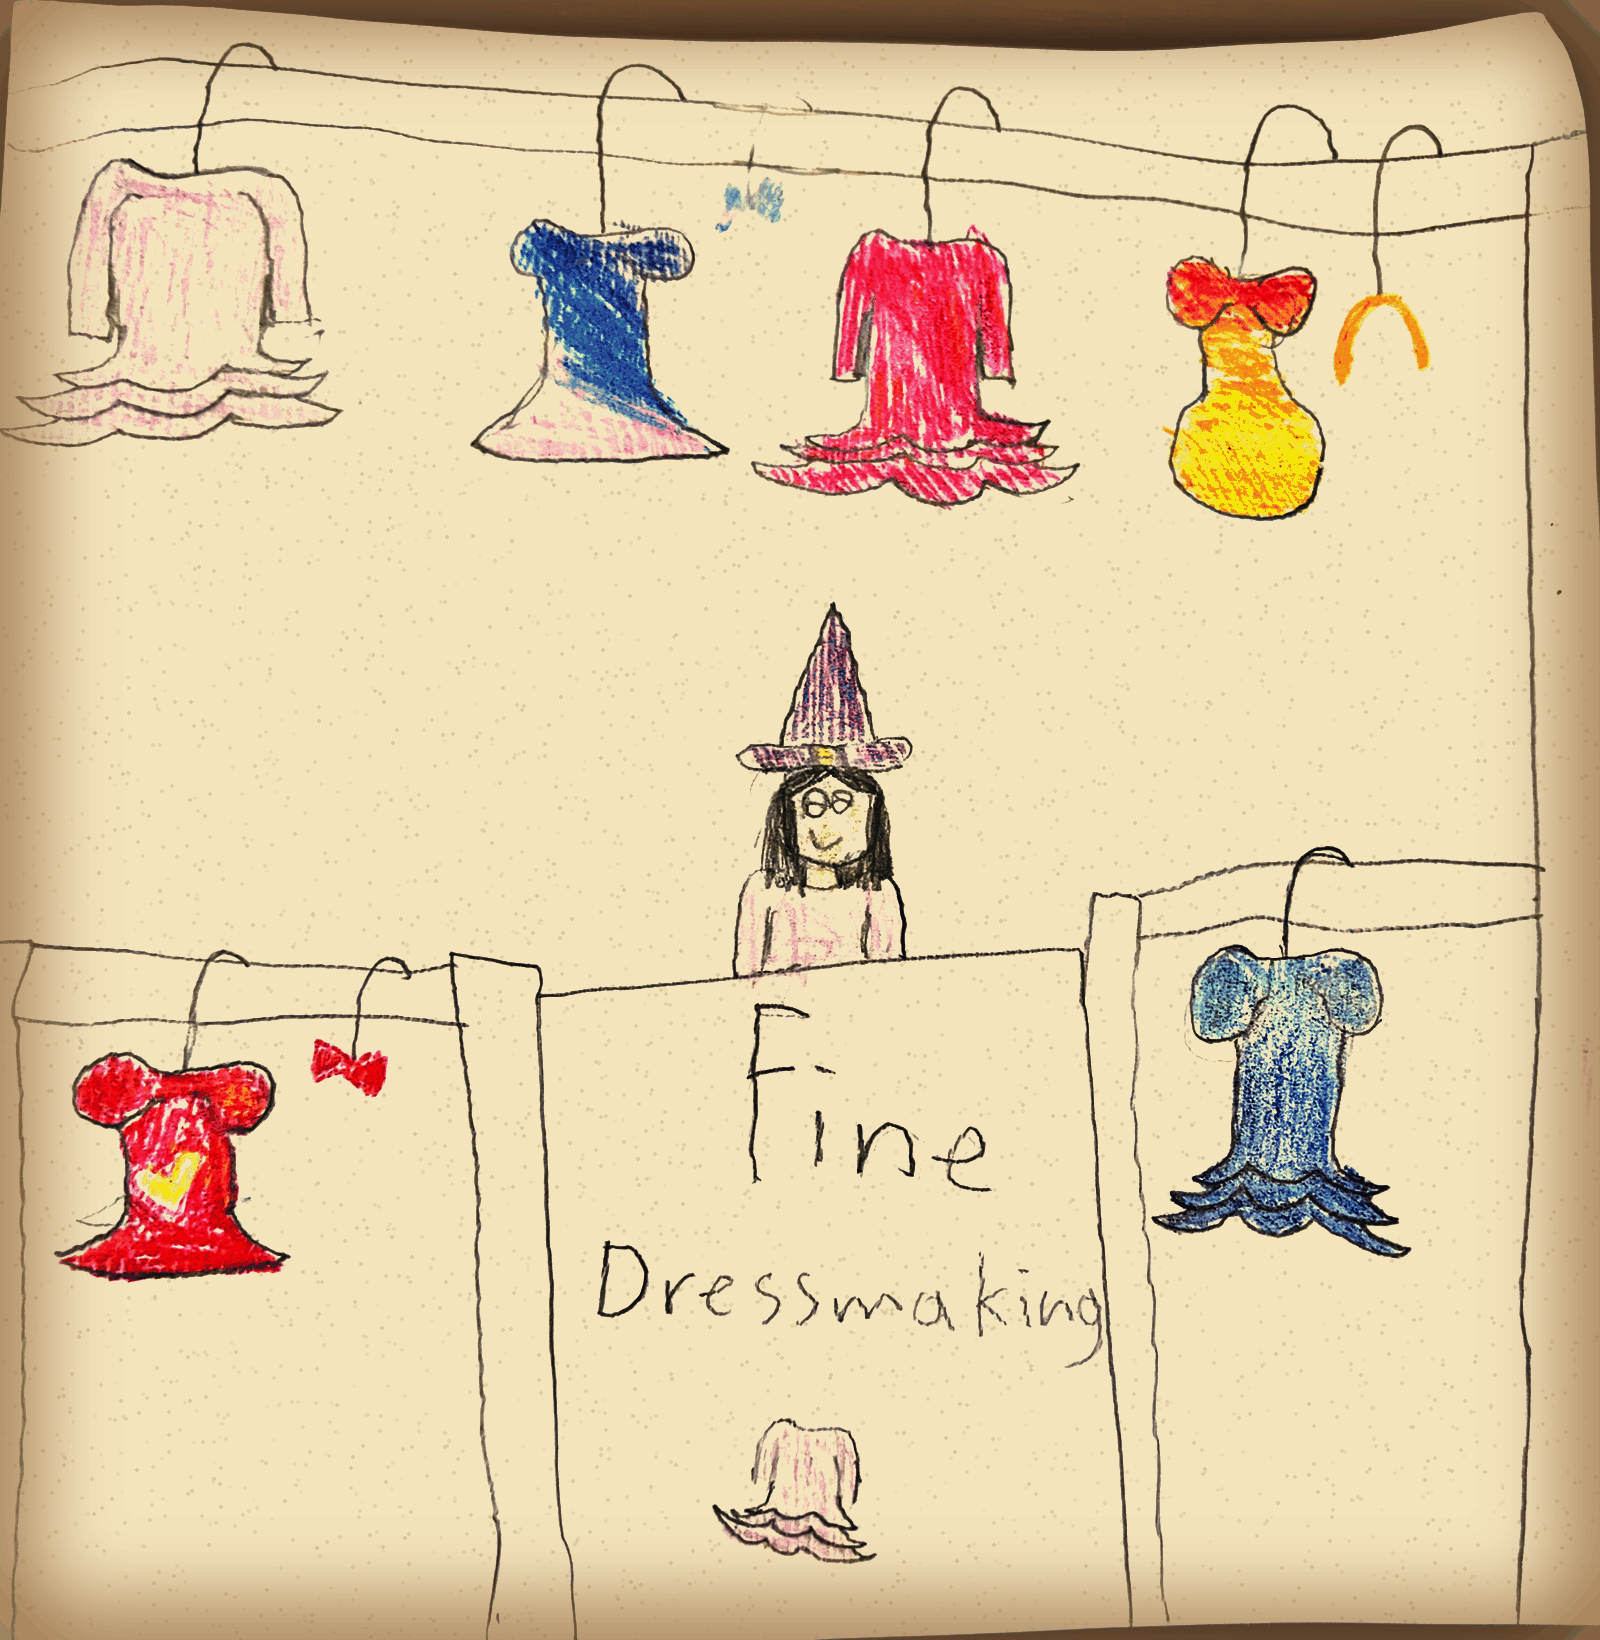
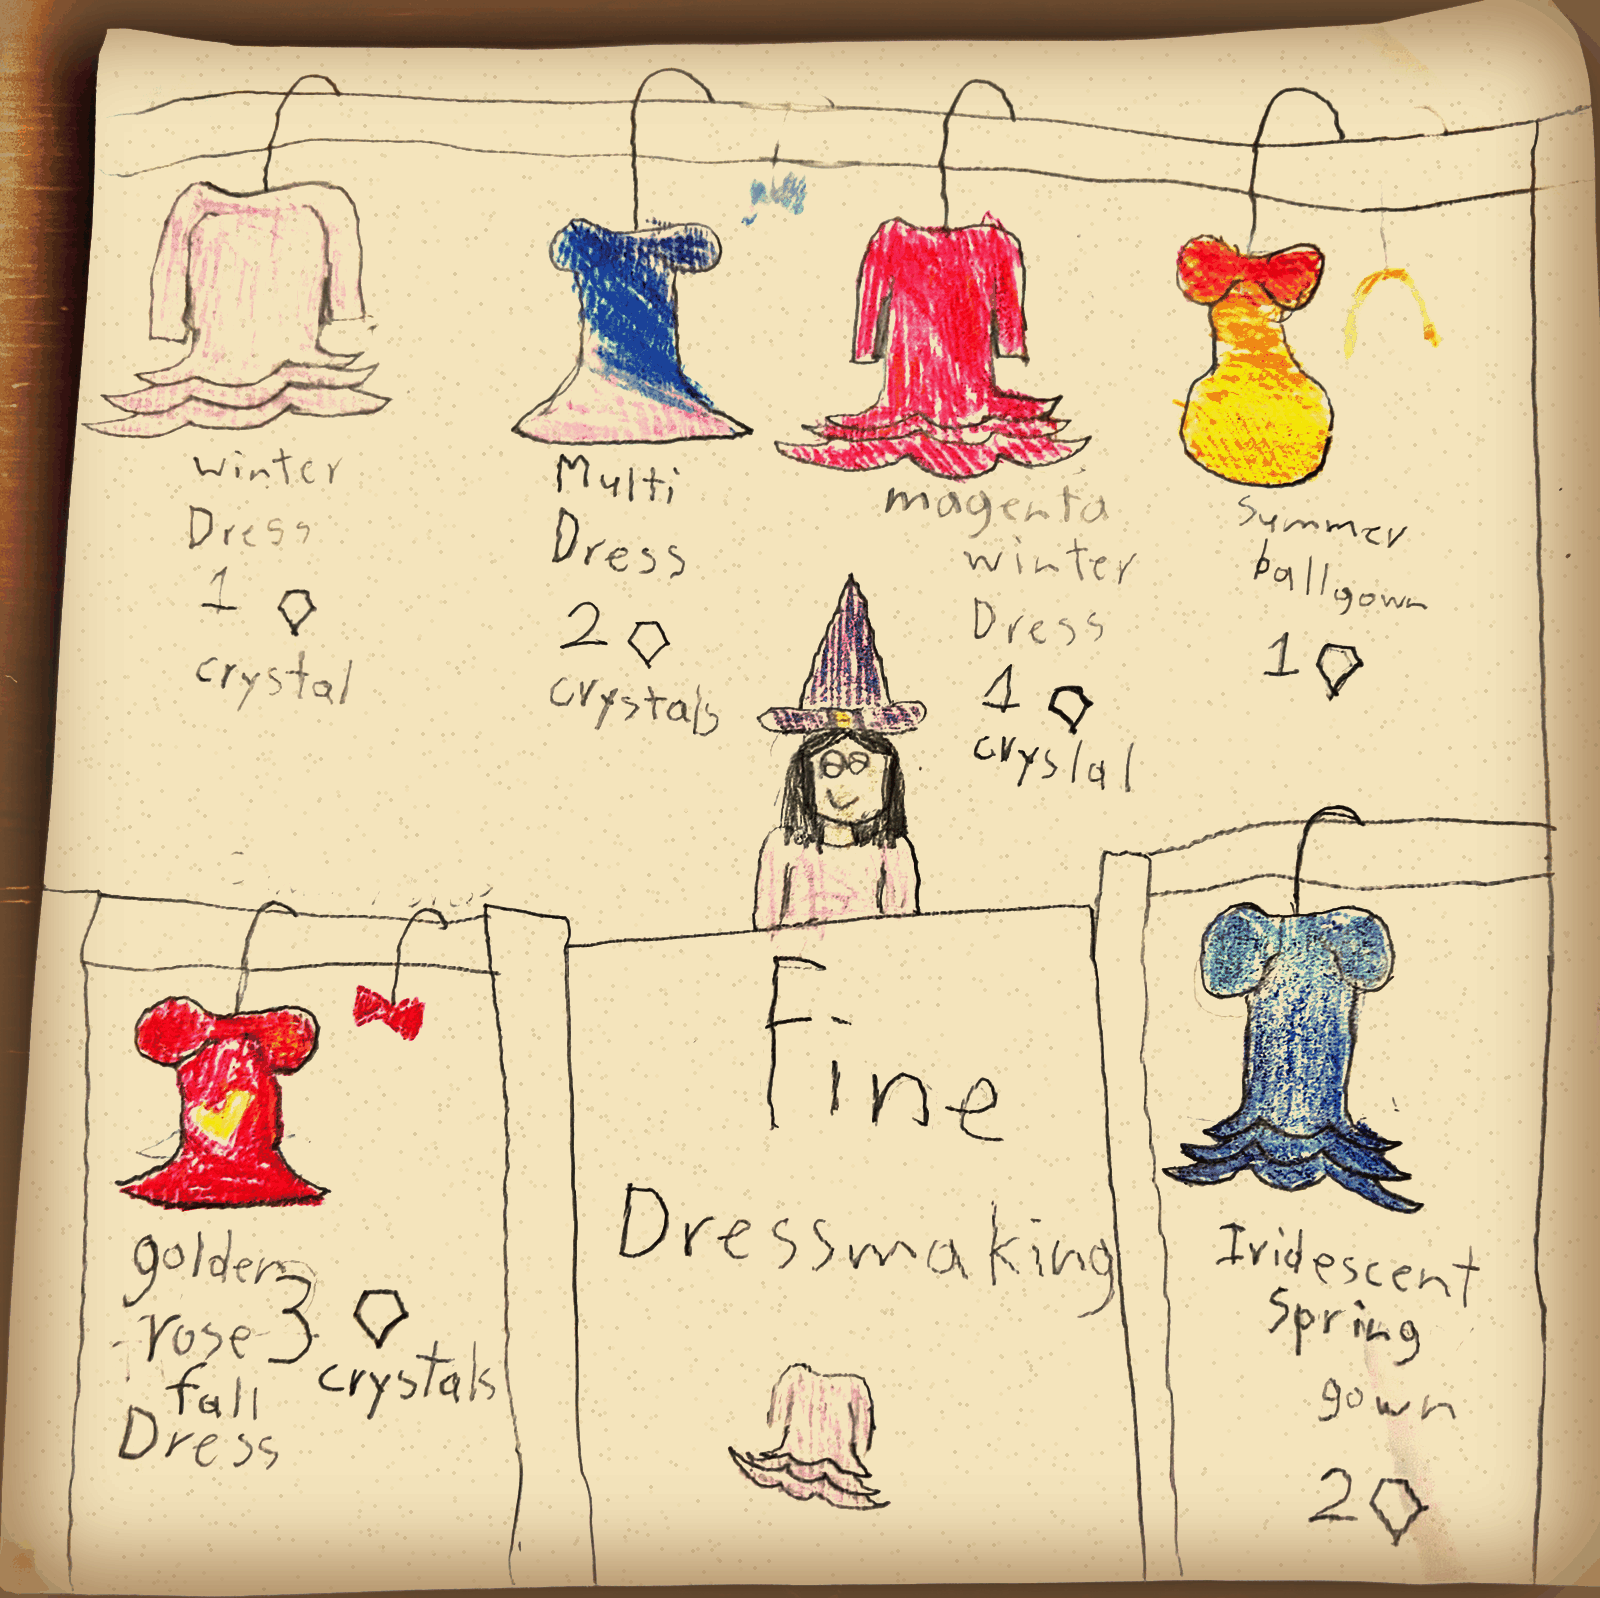
New Fine Dressmaking drawing with six dresses for sale in Crystals
Claude-Session: https://claude.ai/code/session_01BBNJnnKDsoYXa5MRnbbGYn

Changed region(s): [[0.0, 0.0, 1.0, 1.0], [0.4375, 0.8586, 0.5625, 0.9506], [0.8125, 0.9199, 0.9062, 0.9812]]

diff --git a/index.html b/index.html
@@ -6,7 +6,7 @@
   <title>Witches and Wizards</title>
   <link rel="preconnect" href="https://fonts.googleapis.com">
   <link href="https://fonts.googleapis.com/css2?family=Grandstander:wght@400;700&display=swap" rel="stylesheet">
-  <link rel="stylesheet" href="css/style.css?v=15">
+  <link rel="stylesheet" href="css/style.css?v=16">
 </head>
 <body>
 
@@ -72,7 +72,7 @@
     <span class="status-item"><b id="status-level"></b></span>
     <span class="status-item" title="Adventure Points">Adventure <span id="status-points" class="stars"></span></span>
     <span class="status-item" title="Crystals">💎 <b id="status-crystals"></b></span>
-    <span class="status-item" title="Gems"><img class="gem-icon" src="art/processed/extra_gem.png?v=15" alt="Gems"> <b id="status-gems"></b></span>
+    <span class="status-item" title="Gems"><img class="gem-icon" src="art/processed/extra_gem.png?v=16" alt="Gems"> <b id="status-gems"></b></span>
     <button id="btn-backpack" class="small-button">🎒 Backpack</button>
     <button id="btn-cooler" class="small-button">🧊 Cooler</button>
     <button id="btn-bucket" class="small-button">🪣 Bucket</button>
@@ -189,25 +189,25 @@
   <p id="placement-info" class="placement-info" hidden></p>
 
   <!-- Game content. Every data file adds to GAME_DATA. -->
-  <script>var GAME_DATA = {}; var GAME_VERSION = "15"; // tools/bump_version.py changes this and every ?v= so browsers load fresh files</script>
-  <script src="data/characters.js?v=15"></script>
-  <script src="data/places.js?v=15"></script>
-  <script src="data/paths.js?v=15"></script>
-  <script src="data/items.js?v=15"></script>
-  <script src="data/fish.js?v=15"></script>
-  <script src="data/digging.js?v=15"></script>
-  <script src="data/furniture.js?v=15"></script>
-  <script src="data/furniture_art.js?v=15"></script>
-  <script src="data/drawn.js?v=15"></script>
+  <script>var GAME_DATA = {}; var GAME_VERSION = "16"; // tools/bump_version.py changes this and every ?v= so browsers load fresh files</script>
+  <script src="data/characters.js?v=16"></script>
+  <script src="data/places.js?v=16"></script>
+  <script src="data/paths.js?v=16"></script>
+  <script src="data/items.js?v=16"></script>
+  <script src="data/fish.js?v=16"></script>
+  <script src="data/digging.js?v=16"></script>
+  <script src="data/furniture.js?v=16"></script>
+  <script src="data/furniture_art.js?v=16"></script>
+  <script src="data/drawn.js?v=16"></script>
 
   <!-- Game code -->
-  <script src="js/save.js?v=15"></script>
-  <script src="js/world.js?v=15"></script>
-  <script src="js/items.js?v=15"></script>
-  <script src="js/fishing.js?v=15"></script>
-  <script src="js/digging.js?v=15"></script>
-  <script src="js/storage.js?v=15"></script>
-  <script src="js/furniture.js?v=15"></script>
-  <script src="js/game.js?v=15"></script>
+  <script src="js/save.js?v=16"></script>
+  <script src="js/world.js?v=16"></script>
+  <script src="js/items.js?v=16"></script>
+  <script src="js/fishing.js?v=16"></script>
+  <script src="js/digging.js?v=16"></script>
+  <script src="js/storage.js?v=16"></script>
+  <script src="js/furniture.js?v=16"></script>
+  <script src="js/game.js?v=16"></script>
 </body>
 </html>

diff --git a/data/items.js b/data/items.js
@@ -34,5 +34,11 @@ GAME_DATA.items = [
   {"id": "special_book", "name": "Wizard Essentials Spellbook", "category": "Special Item", "gems": 5, "emoji": "📖", "description": "Every spell a young witch or wizard needs to know."}
 ,
   {"id": "ski_size1", "name": "Ski Outfit (Size 1)", "category": "Ski Gear", "gems": 3, "emoji": "⛷", "inPicture": true, "shelfX": 21, "shelfY": 76, "description": "A green ski outfit from the Ski Reserve."},
-  {"id": "ski_size2", "name": "Ski Outfit (Size 2)", "category": "Ski Gear", "gems": 5, "emoji": "⛷", "inPicture": true, "shelfX": 40, "shelfY": 74, "description": "A purple ski outfit from the Ski Reserve, one size bigger."}
+  {"id": "ski_size2", "name": "Ski Outfit (Size 2)", "category": "Ski Gear", "gems": 5, "emoji": "⛷", "inPicture": true, "shelfX": 40, "shelfY": 74, "description": "A purple ski outfit from the Ski Reserve, one size bigger."},
+  {"id": "dress_winter", "name": "Winter Dress", "category": "Dresses", "price": 1, "emoji": "👗", "inPicture": true, "shelfX": 15, "shelfY": 26, "description": "A soft pink winter dress with a frilly hem."},
+  {"id": "dress_multi", "name": "Multi Dress", "category": "Dresses", "price": 2, "emoji": "👗", "inPicture": true, "shelfX": 40, "shelfY": 27, "description": "A dress that fades from blue to pink."},
+  {"id": "dress_magenta_winter", "name": "Magenta Winter Dress", "category": "Dresses", "price": 4, "emoji": "👗", "inPicture": true, "shelfX": 58, "shelfY": 29, "description": "A bright magenta winter dress with frills."},
+  {"id": "dress_summer_ballgown", "name": "Summer Ballgown", "category": "Dresses", "price": 1, "emoji": "👗", "inPicture": true, "shelfX": 79, "shelfY": 30, "description": "A sunny yellow and orange ballgown with a bow."},
+  {"id": "dress_golden_rose", "name": "Golden Rose Fall Dress", "category": "Dresses", "price": 3, "emoji": "👗", "inPicture": true, "shelfX": 14, "shelfY": 75, "description": "A red fall dress with a golden rose."},
+  {"id": "dress_iridescent_spring", "name": "Iridescent Spring Gown", "category": "Dresses", "price": 2, "emoji": "👗", "inPicture": true, "shelfX": 81, "shelfY": 75, "description": "A shimmering blue spring gown."}
 ];

diff --git a/data/drawn.js b/data/drawn.js
@@ -1,2 +1,2 @@
 // Made by tools/process_art.py: the pictures that are real drawings, not placeholders.
-GAME_DATA.drawn = ["bany", "beach_bottlecap", "beach_redshell", "beach_sanddollar", "broom_bolt", "broom_firefly", "broom_no1", "broom_no10", "broom_no11", "broom_no2", "broom_no3", "broom_no4", "broom_no5", "broom_no6", "broom_no7", "broom_no8", "broom_no9", "broom_rocketer", "broom_snowflake", "broom_stinger", "broom_wave", "charmy", "coachy", "extra_gem", "extra_snowball_first", "fish_bubble", "fish_crystal", "fish_dream", "lisley", "map_mountain", "map_world", "pet_cat", "pet_owl", "pet_turtle", "place_beach", "place_cabin", "place_dock", "place_dress_shop", "place_home", "place_island", "place_rec_room", "place_shelf_brooms", "place_shelf_hats", "place_shelf_pets", "place_shelf_potions", "place_shelf_special", "place_shelf_wands", "place_shelves", "place_shelves_alt", "place_ski_reserve", "place_store", "potion_float", "rosy", "ski_size1", "ski_size2", "special_book", "treasure_sanddollar", "treasure_shell", "wanda", "winky"];
+GAME_DATA.drawn = ["bany", "beach_bottlecap", "beach_redshell", "beach_sanddollar", "broom_bolt", "broom_firefly", "broom_no1", "broom_no10", "broom_no11", "broom_no2", "broom_no3", "broom_no4", "broom_no5", "broom_no6", "broom_no7", "broom_no8", "broom_no9", "broom_rocketer", "broom_snowflake", "broom_stinger", "broom_wave", "charmy", "coachy", "dress_golden_rose", "dress_iridescent_spring", "dress_magenta_winter", "dress_multi", "dress_summer_ballgown", "dress_winter", "extra_gem", "extra_snowball_first", "fish_bubble", "fish_crystal", "fish_dream", "lisley", "map_mountain", "map_world", "pet_cat", "pet_owl", "pet_turtle", "place_beach", "place_cabin", "place_dock", "place_dress_shop", "place_home", "place_island", "place_rec_room", "place_shelf_brooms", "place_shelf_hats", "place_shelf_pets", "place_shelf_potions", "place_shelf_special", "place_shelf_wands", "place_shelves", "place_shelves_alt", "place_ski_reserve", "place_store", "potion_float", "rosy", "ski_size1", "ski_size2", "special_book", "treasure_sanddollar", "treasure_shell", "wanda", "winky"];

diff --git a/catalog.html b/catalog.html
@@ -176,16 +176,16 @@
     </div>
   </main>
 
-  <script>var GAME_DATA = {}; var GAME_VERSION = "15"; // tools/bump_version.py changes this and every ?v= so browsers load fresh files</script>
-  <script src="data/characters.js?v=15"></script>
-  <script src="data/places.js?v=15"></script>
-  <script src="data/items.js?v=15"></script>
-  <script src="data/ideas.js?v=15"></script>
-  <script src="data/fish.js?v=15"></script>
-  <script src="data/digging.js?v=15"></script>
-  <script src="data/gameplay.js?v=15"></script>
-  <script src="data/extras.js?v=15"></script>
-  <script src="data/drawn.js?v=15"></script>
+  <script>var GAME_DATA = {}; var GAME_VERSION = "16"; // tools/bump_version.py changes this and every ?v= so browsers load fresh files</script>
+  <script src="data/characters.js?v=16"></script>
+  <script src="data/places.js?v=16"></script>
+  <script src="data/items.js?v=16"></script>
+  <script src="data/ideas.js?v=16"></script>
+  <script src="data/fish.js?v=16"></script>
+  <script src="data/digging.js?v=16"></script>
+  <script src="data/gameplay.js?v=16"></script>
+  <script src="data/extras.js?v=16"></script>
+  <script src="data/drawn.js?v=16"></script>
   <script>
     // Builds the catalog straight from the game's data files, so it never goes out of date.
     const drawn = GAME_DATA.drawn || [];

diff --git a/data/places.js b/data/places.js
@@ -37,8 +37,9 @@ GAME_DATA.places = [
     "description": "Your cosy dorm room. Click the cooler or the chest to put away what you caught and dug up." },
   { "id": "store",  "name": "Campus Store",  "type": "place", "in": "village", "x": 50, "y": 42,
     "description": "The clerk waves hello. Click a shelf to see what's for sale." },
-  { "id": "dress_shop", "name": "Fine Dressmaking", "type": "place", "in": "village", "x": 24, "y": 34,
-    "description": "Dresses of every colour hang on the walls. The dressmaker waves from the counter." },
+  { "id": "dress_shop", "name": "Fine Dressmaking", "type": "place", "in": "village", "x": 24, "y": 34, "shelf": "Dresses",
+    "rows": [[6, 28], [58, 76]],
+    "description": "Dresses for every season hang on the walls, priced in Crystals. The dressmaker waves from the counter." },
   { "id": "school", "name": "Wizard School", "type": "place", "in": "village", "x": 79, "y": 62,
     "description": "Behind the round wall, young witches and wizards learn magic." },
 

diff --git a/CLAUDE.md b/CLAUDE.md
@@ -21,7 +21,7 @@ A family project: Scott drives, his two 9-year-old daughters make the art and de
 - `data/places.js` is one list of every place, nested with `in`: World map → territory maps → locations → spots inside (store shelves). `type: "map"` = walkable with roads from `data/paths.js`; `type: "place"` = picture with clickable spots; `type: "person"` = someone in a picture who talks (`says`) when clicked; `type: "fishing"` = a fishing spot (the Lucky Rods at the Dock); `type: "digging"` = a dig spot (Pebble Beach).
 - The player types their own name (`playerName`); character names are fixed in `data/characters.js`.
 - Items: `data/items.js`. The character's backpack is unseen (`player.backpack`); items can be put down at places (`player.stored[placeId]`).
-- Shops outside the Campus Store (the Ski Reserve) are places with `shelf` set; their items use `inPicture` so only the price tag shows over the drawn item. The Scholarship covers only the Campus Store's shelves.
+- Shops outside the Campus Store (the Ski Reserve; Fine Dressmaking in the Village, dresses priced in Crystals from the girls' drawing, Scott 2026-10-10) are places with `shelf` set; their items use `inPicture` so only the price tag shows over the drawn item. The Scholarship covers only the Campus Store's shelves.
 - Two kinds of money (Scott, 2026-10-10): Crystals (`price`, 💎) and Gems (`gems`, shown with the girls' gem drawing). Gems are rarer and earned by fishing. The girls write prices in gems on their drawings.
 - Fishing: `data/fish.js` (fish, their gems and `chance`, and the 5 to 25 second wait; past 20 seconds nothing is caught). Caught fish go in `player.cooler`, add to `player.fishCount` and earn their gems. Treasures (`GAME_DATA.treasures`, also in fish.js: shell, sand dollar) are caught the same way and earn gems but are not fish: they also go in the cooler but never add to `fishCount` (Scott, 2026-10-10; the count is for something later). Code in `js/fishing.js`.
 - Digging (Pebble Beach): places with `type: "digging"` and `finds` ("beach" or "crystals"). `data/digging.js` has the beach finds (Bottle Cap 0, Conch Shell 2, Sand Dollar 3 gems, from the girls' drawing) and the dig time; the Crystal Dig Spot gives 1 to 5 Crystals (Claude's placeholder numbers). Finds go in the bucket and are not fish. Code in `js/digging.js`.
